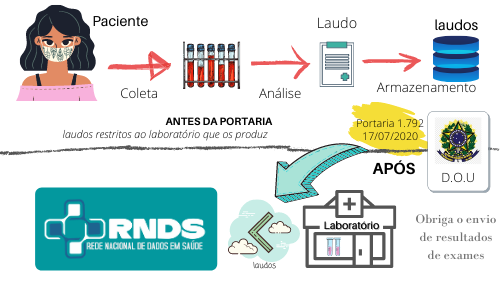
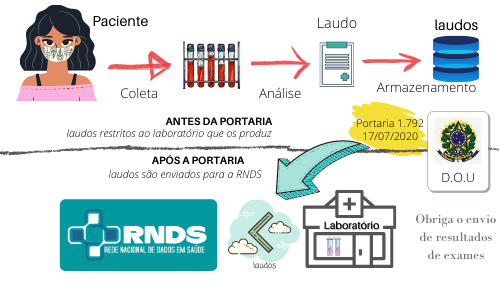
documentacao

Changed region(s): [[0.06, 0.45, 0.75, 0.93], [0.12, 0.42, 0.54, 0.48], [0.75, 0.54, 0.84, 0.6]]

diff --git a/README.md b/README.md
@@ -2,9 +2,9 @@
 
 ## Guia do Desenvolvedor RNDS
 
-Objetivo:
+Interesse:
 
-> Detalhar a integração com a RNDS.
+> Integração com a RNDS.
 
 Avisos:
 
@@ -15,28 +15,28 @@ Avisos:
 
 ## Contexto
 
-Em um cenário convencional, sem a introdução da RNDS, laudos produzidos permaneceriam restritos ao sistema de software do laboratório em questão.
-Em algum momento seriam enviados para uma base de dados segura, e inacessível até aos pacientes.
+Em um cenário convencional, sem a introdução da RNDS, laudos produzidos permanecem restritos ao sistema de software do laboratório em questão.
+Em algum momento são enviados para uma base de dados segura, e inacessível até aos pacientes.
 
-A saúde, contudo, demanda mudança na qual laudos cruzem as fronteiras
-dos laboratórios que os produzem. A intenção é "fazer a informação
-em saúde chegar onde ela é necessária". A RNDS é o meio adotado pelo Brasil, 
-conforme a Portaria 1.792, de 17 de julho de 2020, do Ministério da Saúde,
-que estabelece a obrigatoriedade de notificação de resultados de testes de SARS-CoV-2, conforme ilustrado abaixo.
+A informação em saúde, contudo, "precisa chegar onde é necessária". A Portaria 1.792, de 17 de julho de 2020, do Ministério da Saúde,
+é um marco histórico, neste sentido. Ela estabelece a obrigatoriedade de notificação de resultados de testes de SARS-CoV-2, conforme ilustrado abaixo, produzidos em todo o território nacional.
 
-<img src="./media/laboratorio.png" width="500px">
+<img src="./media/laboratorio.png" width="600px">
 
 Na prática, isso significa que laboratórios terão que produzir _software_ para integração com a RNDS, conforme ilustrado abaixo.
 
-<img src="./media/portaria.png" width="500px">
+<img src="./media/pratica.png" width="500px">
 
 O presente documento tem como compromisso identificar todos
-os passos necessários, desde administrativos até técnicos (produção de _software_), para realizar tal notificação. Dito de outra forma, para realizar a _integração com a RNDS_.
+os passos necessários, desde administrativos até técnicos, para realizar tal notificação, ou a _integração com a RNDS_, ou ainda, produzir um
+_software_ que encaminha resultados de exames para a RNDS.
 
-## Integração com a RNDS
+## Integração na perspectiva dos atores
 
 A integração com a RNDS exige ações realizadas por dois atores: (a) o responsável pelo laboratório e (b) o responsável pela TI (Tecnologia
-da Informação) do laboratório.
+da Informação) do laboratório. O responsável pela TI pode ser um colaborador
+do próprio laboratório ou serviço oferecido por empresa especializada,
+dentre outros cenários.
 
 ### Atribuições do responsável pelo laboratório
 
